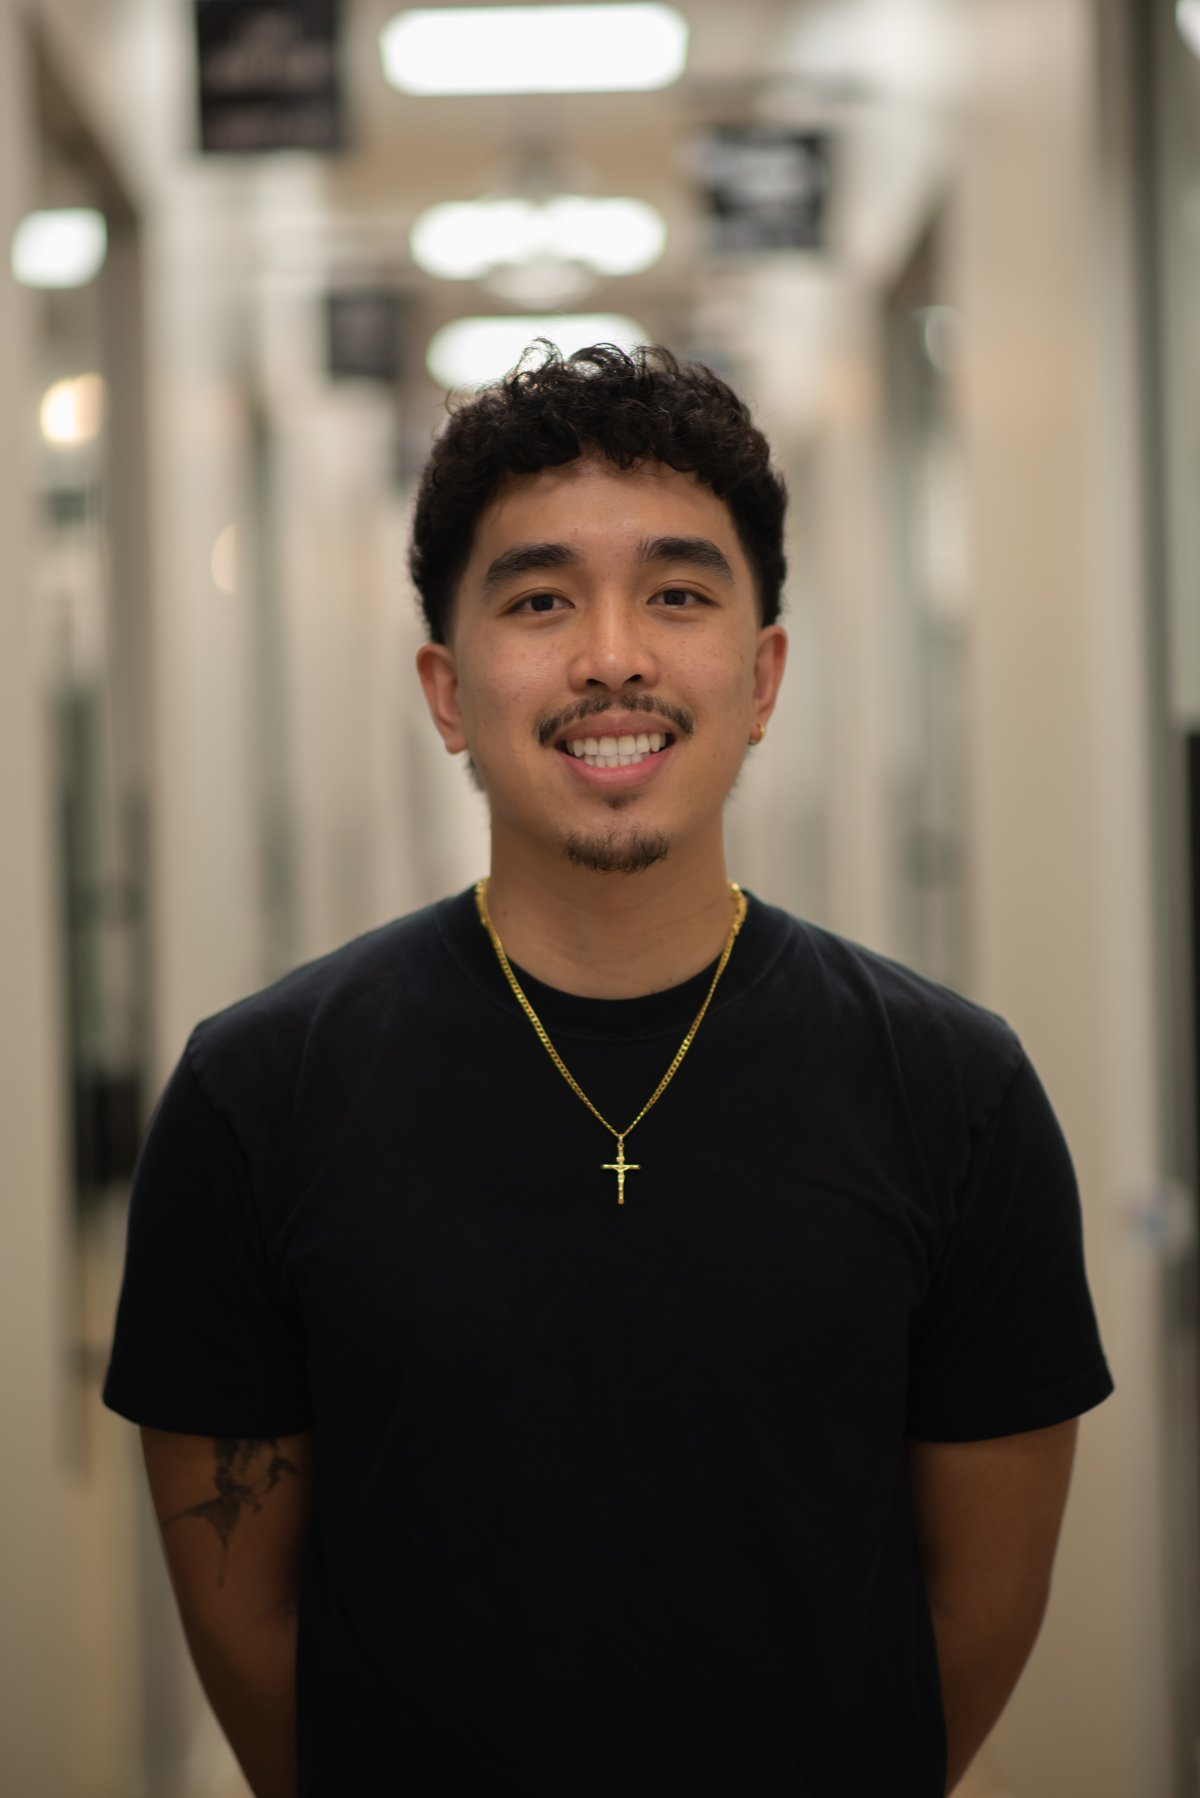
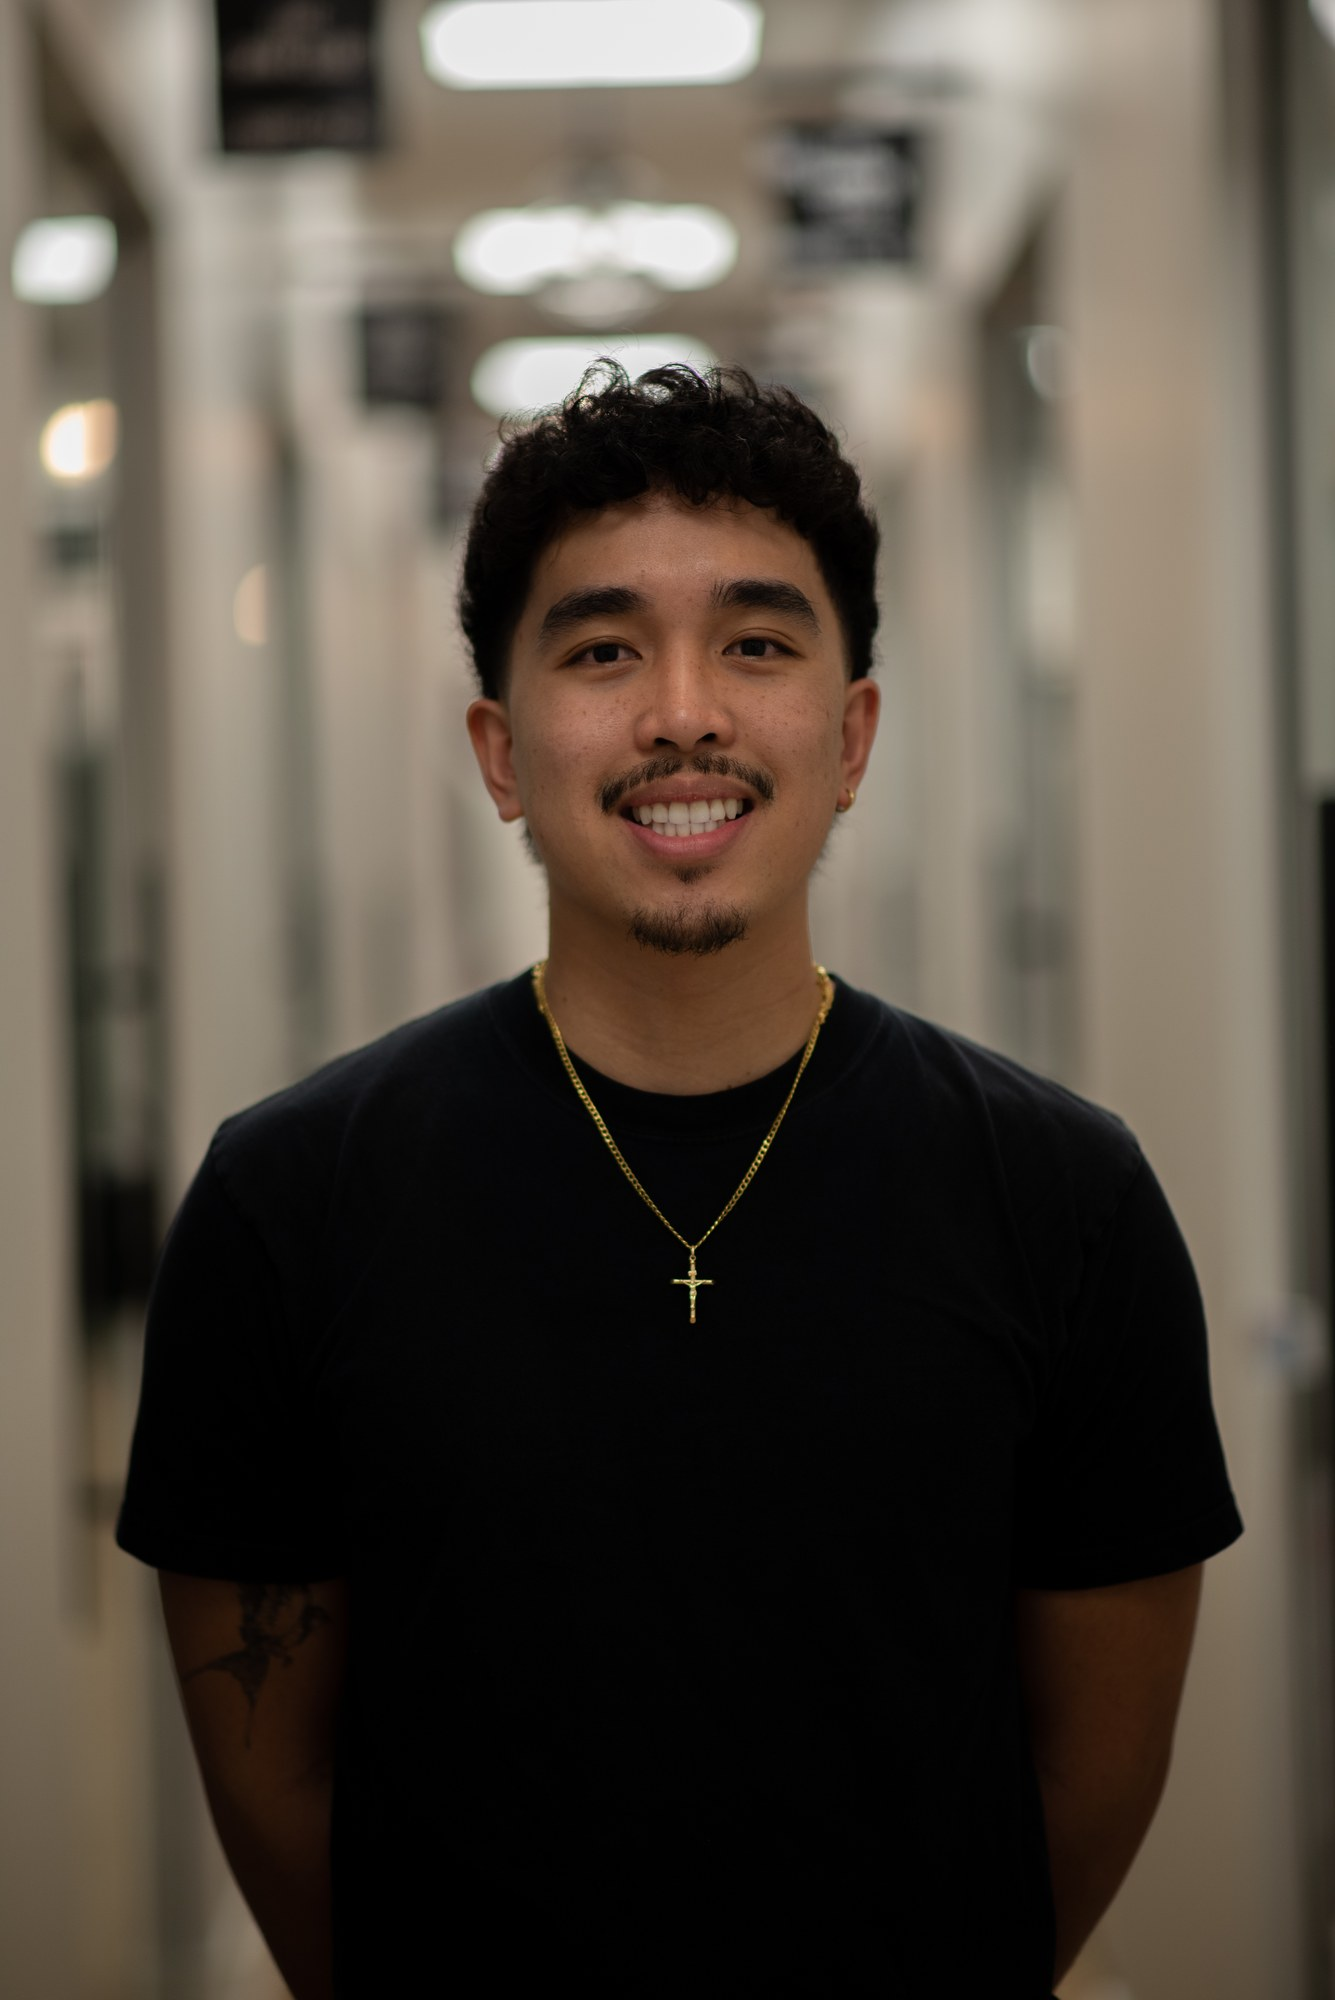
Use jppic-main.jpg as card thumbnail at higher resolution
Recompressed jppic-main.jpg to 1335x2000 (155KB) so it serves
as both the sharp card thumbnail and gallery center image.

diff --git a/jp/barber/views.py b/jp/barber/views.py
@@ -470,7 +470,7 @@ def _build_home_data() -> tuple[list[dict], list[dict]]:
             "id": "jp",
             "name": "JP",
             "title": "Owner / Lead Barber",
-            "photo_url": static("profile/jppic-card.jpg"),
+            "photo_url": static("profile/jppic-main.jpg"),
             "gallery": [
                 static("profile/jppic5.jpg"),
                 static("profile/jppic-main.jpg"),
